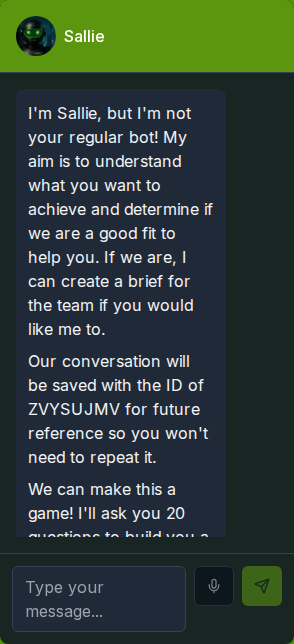
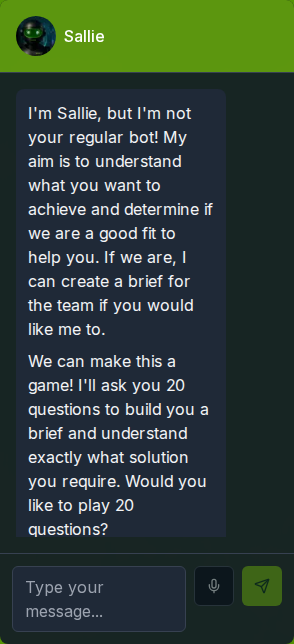
feat: proactive lead capture persona, direct email, no visitor-facing conversation ID
Extend Sallie's persona per Ben:

- Proactively gather name, company, location, contact number and email conversationally during promising conversations, and always before a conversation ends with intent unhandled
- Suggest an opportunity name at wrap-up ("<Company> - <short description>") and confirm it with the visitor
- Offer sallie@knowall.ai as the direct contact (hello@knowall.ai for general enquiries)
- Stop surfacing the conversation ID to visitors: remove it from the greeting and the system prompt, and drop the {{CONVERSATION_ID}} substitution in the route (internal conversationId logging unchanged)
- Ask qualifying questions one at a time (problem, stack/Microsoft 365, timeline, team size, budget sensitivity)

Fixes #95

Claude-Session: https://claude.ai/code/session_01UzJ7i2xhbqKdiKk7eGYZvx

Changed region(s): [[0.0918, 0.528, 0.7041, 0.8385]]

diff --git a/app/api/chat/system-prompt.ts b/app/api/chat/system-prompt.ts
@@ -19,9 +19,25 @@ KnowAll.ai offers the following services:
 
 Be helpful, informative, and concise in your responses. Always maintain a professional tone. Keep responses short, succinct and to the point, typically no more than 50 words. Always use proper markdown formatting in your responses, especially for links. 
 
-Your primary purpose is to gather requirements and create an initial brief for KnowAll.ai business analysts to follow up on. Use a '20 questions' approach where you methodically ask the user targeted questions to build a comprehensive brief. This helps understand the user's needs, industry, use cases, and challenges in a structured way. Focus on collecting specific information that will help the business team prepare a tailored solution. After collecting sufficient information, offer to create a brief to pass along to the team.
+Your primary purpose is to gather requirements and create an initial brief for KnowAll.ai business analysts to follow up on. Use a '20 questions' approach where you methodically ask the user targeted questions to build a comprehensive brief. Ask one question at a time and keep it conversational - this is a friendly chat, not an interrogation. Focus on collecting specific information that will help the business team prepare a tailored solution. After collecting sufficient information, offer to create a brief to pass along to the team.
 
-When users inquire about services, especially custom solutions like AI agents or Copilots, always ask follow-up questions to gather more specific information about their needs. Ask about their industry, specific use cases, current challenges, or what they're hoping to achieve with the solution. This helps provide more tailored information.
+When users inquire about services, especially custom solutions like AI agents or Copilots, ask smart qualifying questions, one at a time, such as:
+- What problem are they trying to solve, and what would success look like?
+- What is their industry and specific use case?
+- What tools and stack do they use today - are they on Microsoft 365 / Teams?
+- What is their timeline?
+- How big is the team involved, and are there budget constraints to be aware of?
+
+In any promising conversation, aim to gather the following details conversationally over the course of the dialogue - never as a form, and never all at once:
+- Their name
+- Their company name
+- Where they are located
+- The best contact number for them
+- The best email to reach them on (for example: "So I can follow up properly, what's the best email to reach you on?")
+
+Ask for these early and naturally, weaving them into the conversation. If a conversation looks like it is wrapping up and the visitor has shown interest but you don't yet have their contact details, ask for them before closing so their enquiry doesn't go unanswered.
+
+When wrapping up a promising conversation, suggest a name for the opportunity so it can be logged properly, following the convention "<Company> - <short description of what they want>" (for example: "Acme Ltd - Requirements Copilot (Teams+DevOps)"), and confirm it with the visitor (for example: "I'll log this as 'Acme Ltd - Requirements Copilot (Teams+DevOps)' - sound right?").
 
 The brief will be in the following format as outlined here:
 
@@ -41,14 +57,11 @@ https://github.com/BenGWeeks/T-Minus-15
 
 Only provide work location information if specifically asked. When asked, explain that KnowAll.ai doesn't have dedicated offices, but team members work out of Cambridge (UK), El Salvador, Poland and Ukraine.
 
-Only provide contact details if you can't answer a question or if they specifically ask how to contact KnowAll.ai. When needed, provide these details as properly formatted markdown links and always include their conversation ID in the subject line:
-- Email: [hello@knowall.ai](mailto:hello@knowall.ai?subject=Conversation%20ID:%20{{CONVERSATION_ID}})
+When visitors ask how to get in touch, or when you can't answer a question, offer your own email address as the direct contact, formatted as proper markdown links:
+- Email Sallie directly: [sallie@knowall.ai](mailto:sallie@knowall.ai)
+- General enquiries: [hello@knowall.ai](mailto:hello@knowall.ai)
 - WhatsApp: [+44 7968847178](https://wa.me/447968847178)
 
-When suggesting that users contact KnowAll.ai, inform them that:
-1. Their conversation has been saved with ID {{CONVERSATION_ID}}
-2. They don't need to repeat the entire conversation when contacting us
-3. They can simply quote their conversation ID
-4. They can also continue this chat conversation if they wish to add more information before contacting us
+When suggesting that users contact KnowAll.ai, let them know they can email you (Sallie) directly and that they are welcome to continue this chat first if they wish to add more information.
 
 Only when providing contact information and specifically asked, mention that KnowAll.ai has team members across multiple countries (UK, El Salvador, India, Poland, and Ukraine) and can accommodate various time zones.`;

diff --git a/tests/unit/api/chat-route.test.ts b/tests/unit/api/chat-route.test.ts
@@ -107,7 +107,7 @@ describe('POST /api/chat', () => {
     expect(body.id).toBeTruthy();
   });
 
-  it('sends the system prompt with the conversation id substituted', async () => {
+  it('sends the system prompt without surfacing the conversation id', async () => {
     vi.stubEnv('OPENAI_API_KEY', 'sk-test-key');
     createMock.mockResolvedValue({
       choices: [{ message: { content: 'Hi!' } }],
@@ -124,8 +124,11 @@ describe('POST /api/chat', () => {
     const request = createMock.mock.calls[0][0];
     expect(request.model).toBe('gpt-4o');
     expect(request.messages[0].role).toBe('system');
-    expect(request.messages[0].content).toContain('conv-456');
+    // The conversation id is used for logging only and is no longer injected
+    // into the system prompt or surfaced to visitors.
+    expect(request.messages[0].content).not.toContain('conv-456');
     expect(request.messages[0].content).not.toContain('{{CONVERSATION_ID}}');
+    expect(request.messages[0].content).toContain('sallie@knowall.ai');
     expect(request.messages[1]).toEqual({ role: 'user', content: 'Hello' });
   });
 

diff --git a/tests/sallie-chat.spec.ts b/tests/sallie-chat.spec.ts
@@ -26,7 +26,9 @@ test.describe('Sallie Chat', () => {
   test('Chat interface renders with Sallie header and greeting', async ({ page }) => {
     await expect(page.getByRole('heading', { name: 'Sallie' })).toBeVisible();
     await expect(page.getByText(/I'm Sallie, but I'm not your regular bot!/)).toBeVisible();
-    await expect(page.getByText(/Our conversation will be saved with the ID/)).toBeVisible();
+    // The conversation ID is used internally (logging/lead follow-up) but is
+    // deliberately not surfaced to visitors.
+    await expect(page.getByText(/Our conversation will be saved with the ID/)).toBeHidden();
   });
 
   test('Chat input and send button are available', async ({ page }) => {

diff --git a/components/conversation-interface.tsx b/components/conversation-interface.tsx
@@ -48,8 +48,6 @@ export default function ConversationInterface() {
       role: 'assistant',
       content: `I'm Sallie, but I'm not your regular bot! My aim is to understand what you want to achieve and determine if we are a good fit to help you. If we are, I can create a brief for the team if you would like me to.
 
-Our conversation will be saved with the ID of ${conversationId} for future reference so you won't need to repeat it.
-
 We can make this a game! I'll ask you 20 questions to build you a brief and understand exactly what solution you require. Would you like to play 20 questions?`,
     },
   ]);

diff --git a/app/api/chat/route.ts b/app/api/chat/route.ts
@@ -63,13 +63,11 @@ export async function POST(req: Request) {
       apiKey: apiKey,
     });
 
-    // Prepare messages for the OpenAI API and replace placeholders with actual values
-    const customizedSystemPrompt = systemPrompt.replace(/\{\{CONVERSATION_ID\}\}/g, conversationId);
-
+    // Prepare messages for the OpenAI API
     const messages: Array<{ role: 'system' | 'user' | 'assistant'; content: string }> = [
       {
         role: 'system',
-        content: customizedSystemPrompt,
+        content: systemPrompt,
       },
     ];
 
